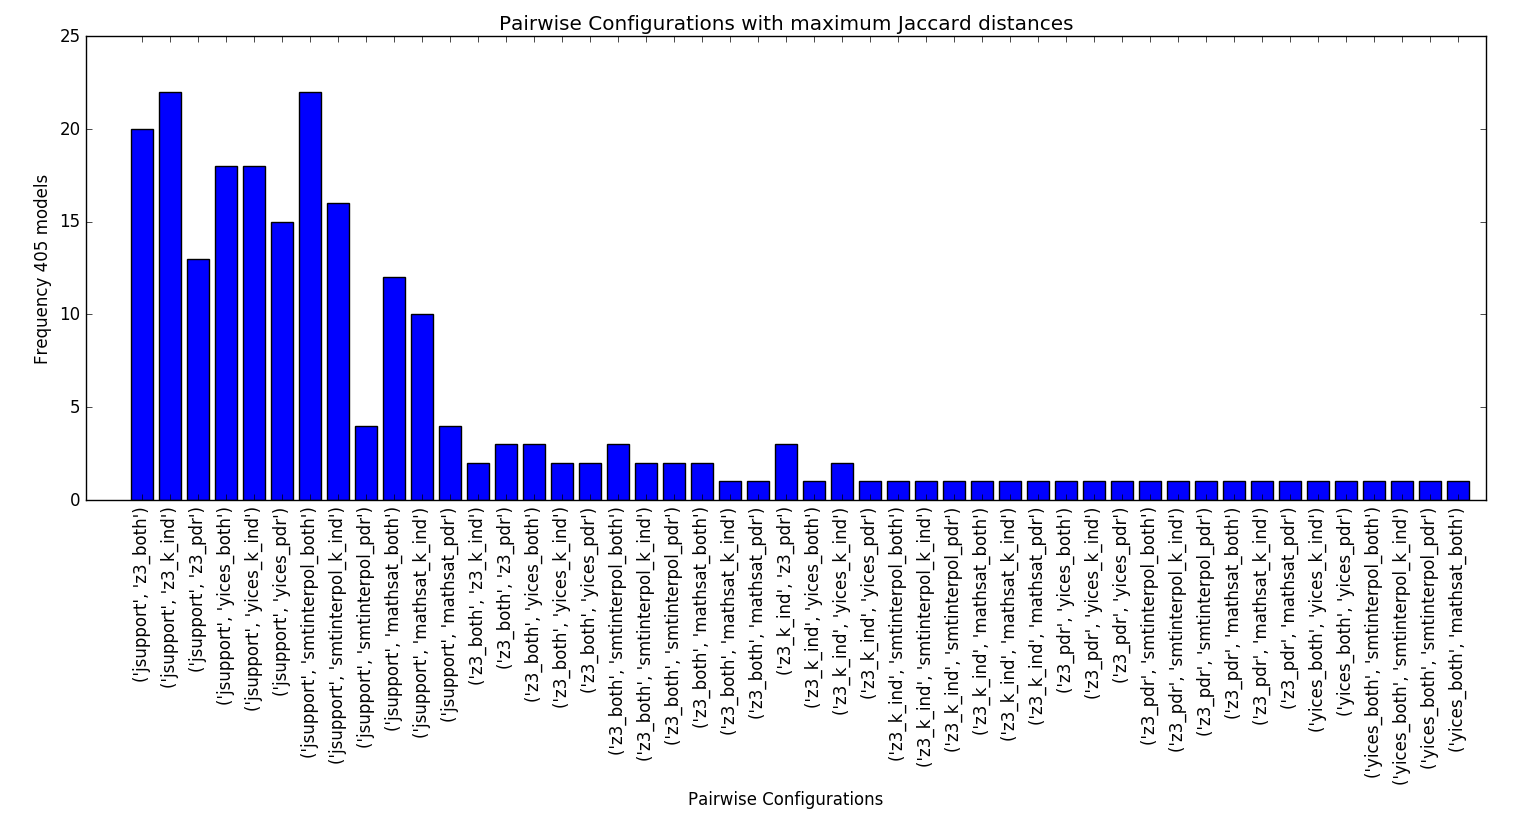
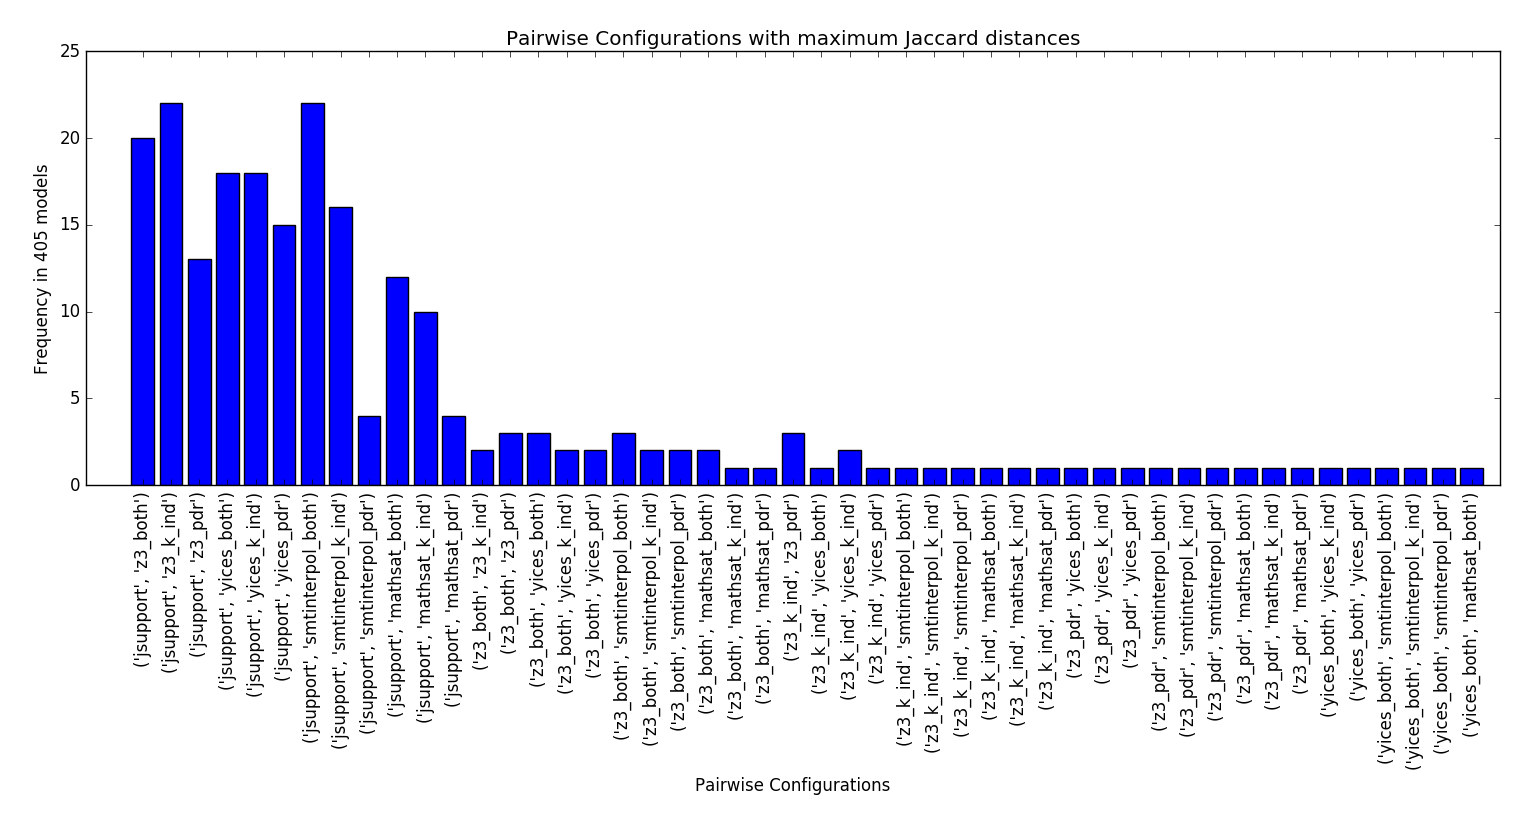
update pictures

Changed region(s): [[0.0309, 0.0, 0.9882, 0.936], [0.0, 0.2114, 0.0618, 0.4529], [0.4323, 0.936, 0.5867, 0.9964]]

diff --git a/support/experiments/scripts_for_experiments/variety_analyzer.py b/support/experiments/scripts_for_experiments/variety_analyzer.py
@@ -191,7 +191,7 @@ plt.bar(x_axis1, y_axis1, align='center')
 plt.xticks(x_axis1, max_labels, rotation='vertical')
  
 plt.xlabel('Pairwise Configurations')
-plt.ylabel('Frequency 405 models')
+plt.ylabel('Frequency in 405 models')
 plt.title('Pairwise Configurations with maximum Jaccard distances') 
 plt.show()
 fig1.savefig(os.path.join(ANALYSES_DIR, 'max_settings_analyses.png'))
@@ -211,7 +211,7 @@ plt.xticks(x_axis2, min_labels, rotation='vertical')
  
 plt.xlabel('Pairwise Configurations')
 plt.ylabel('Frequency in 405 models')
-plt.title('Pairwise Configurations with maximum Jaccard distances') 
+plt.title('Pairwise Configurations with minimum Jaccard distances') 
 plt.show()
 fig2.savefig(os.path.join(ANALYSES_DIR, 'min_settings_analyses.png'))
 
